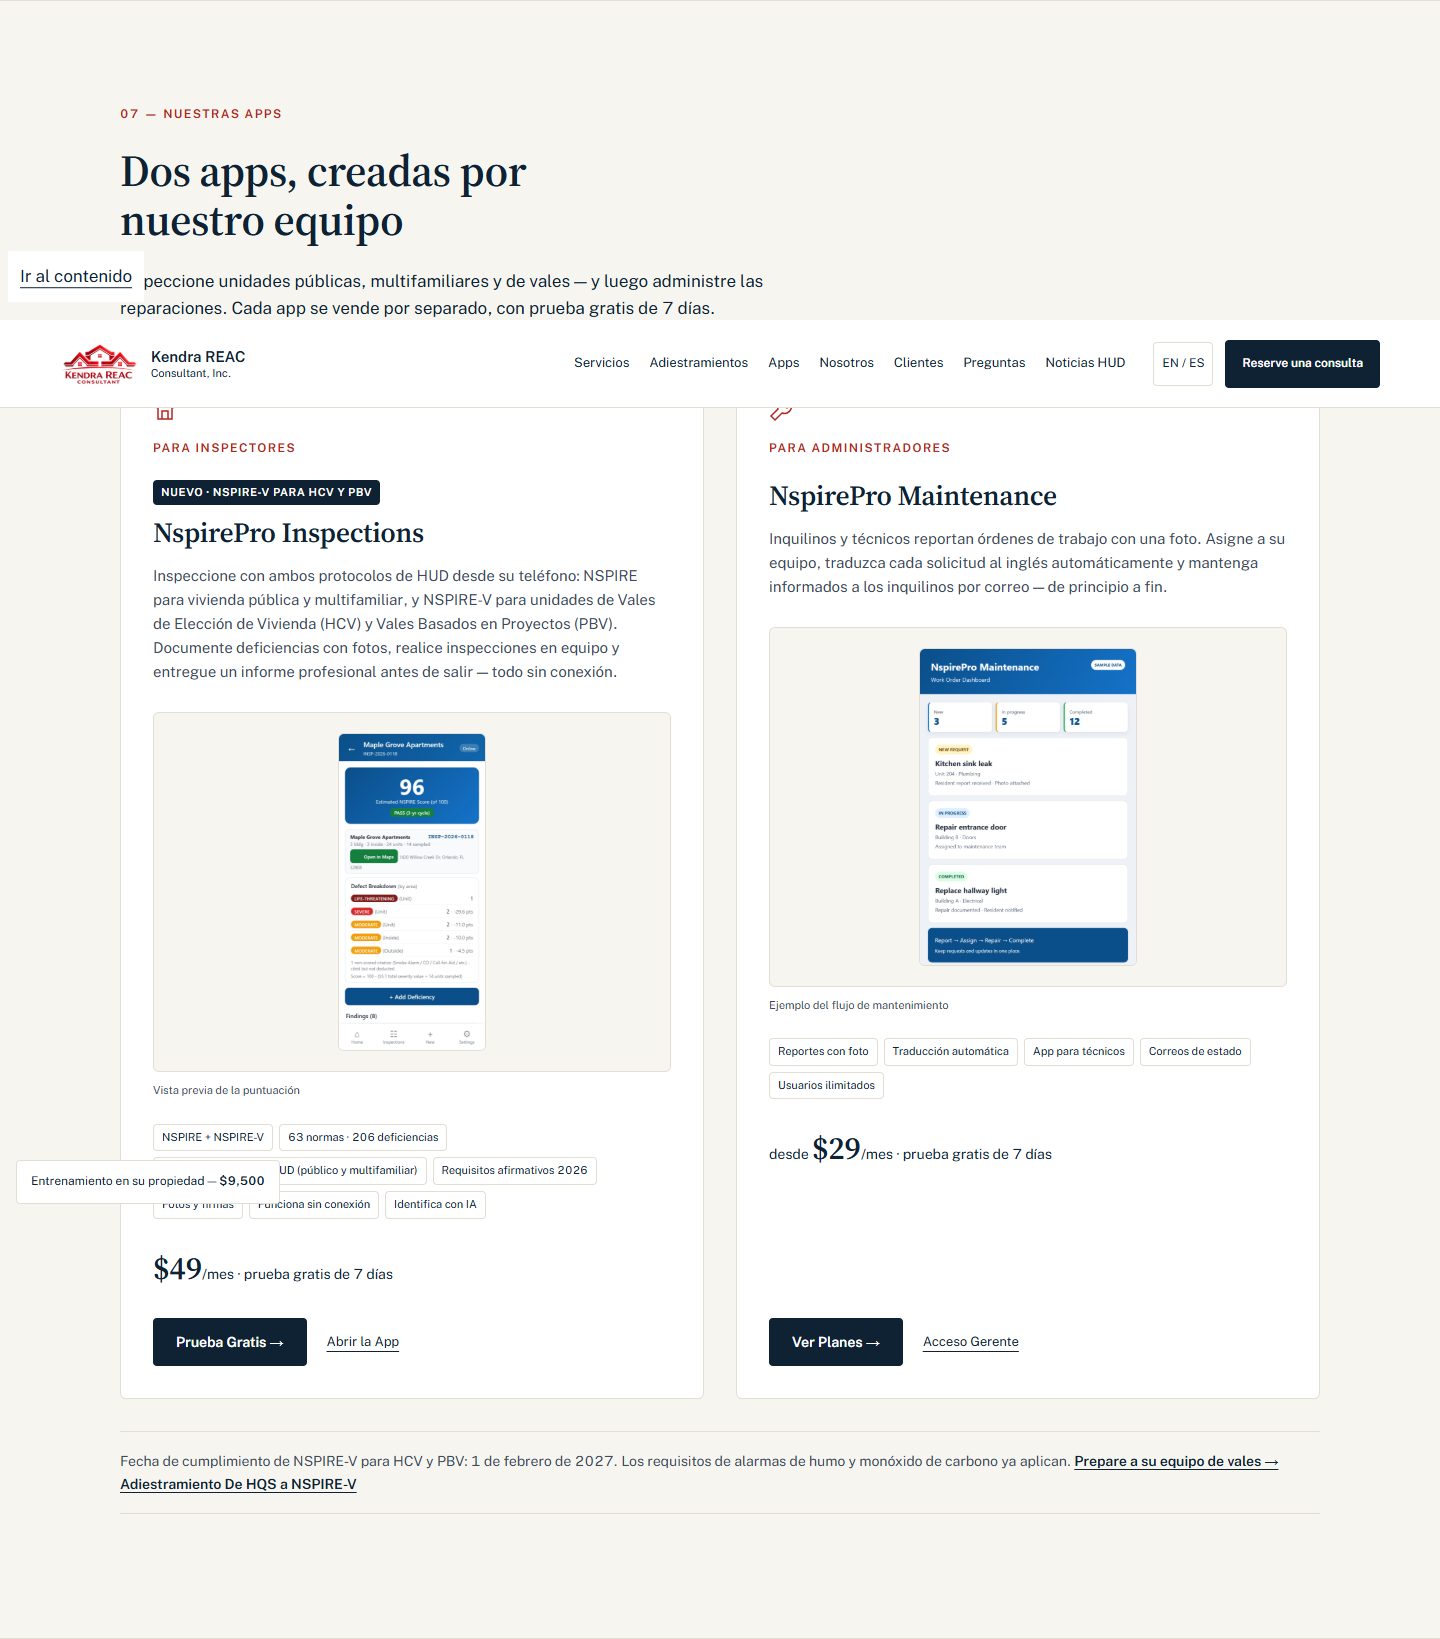
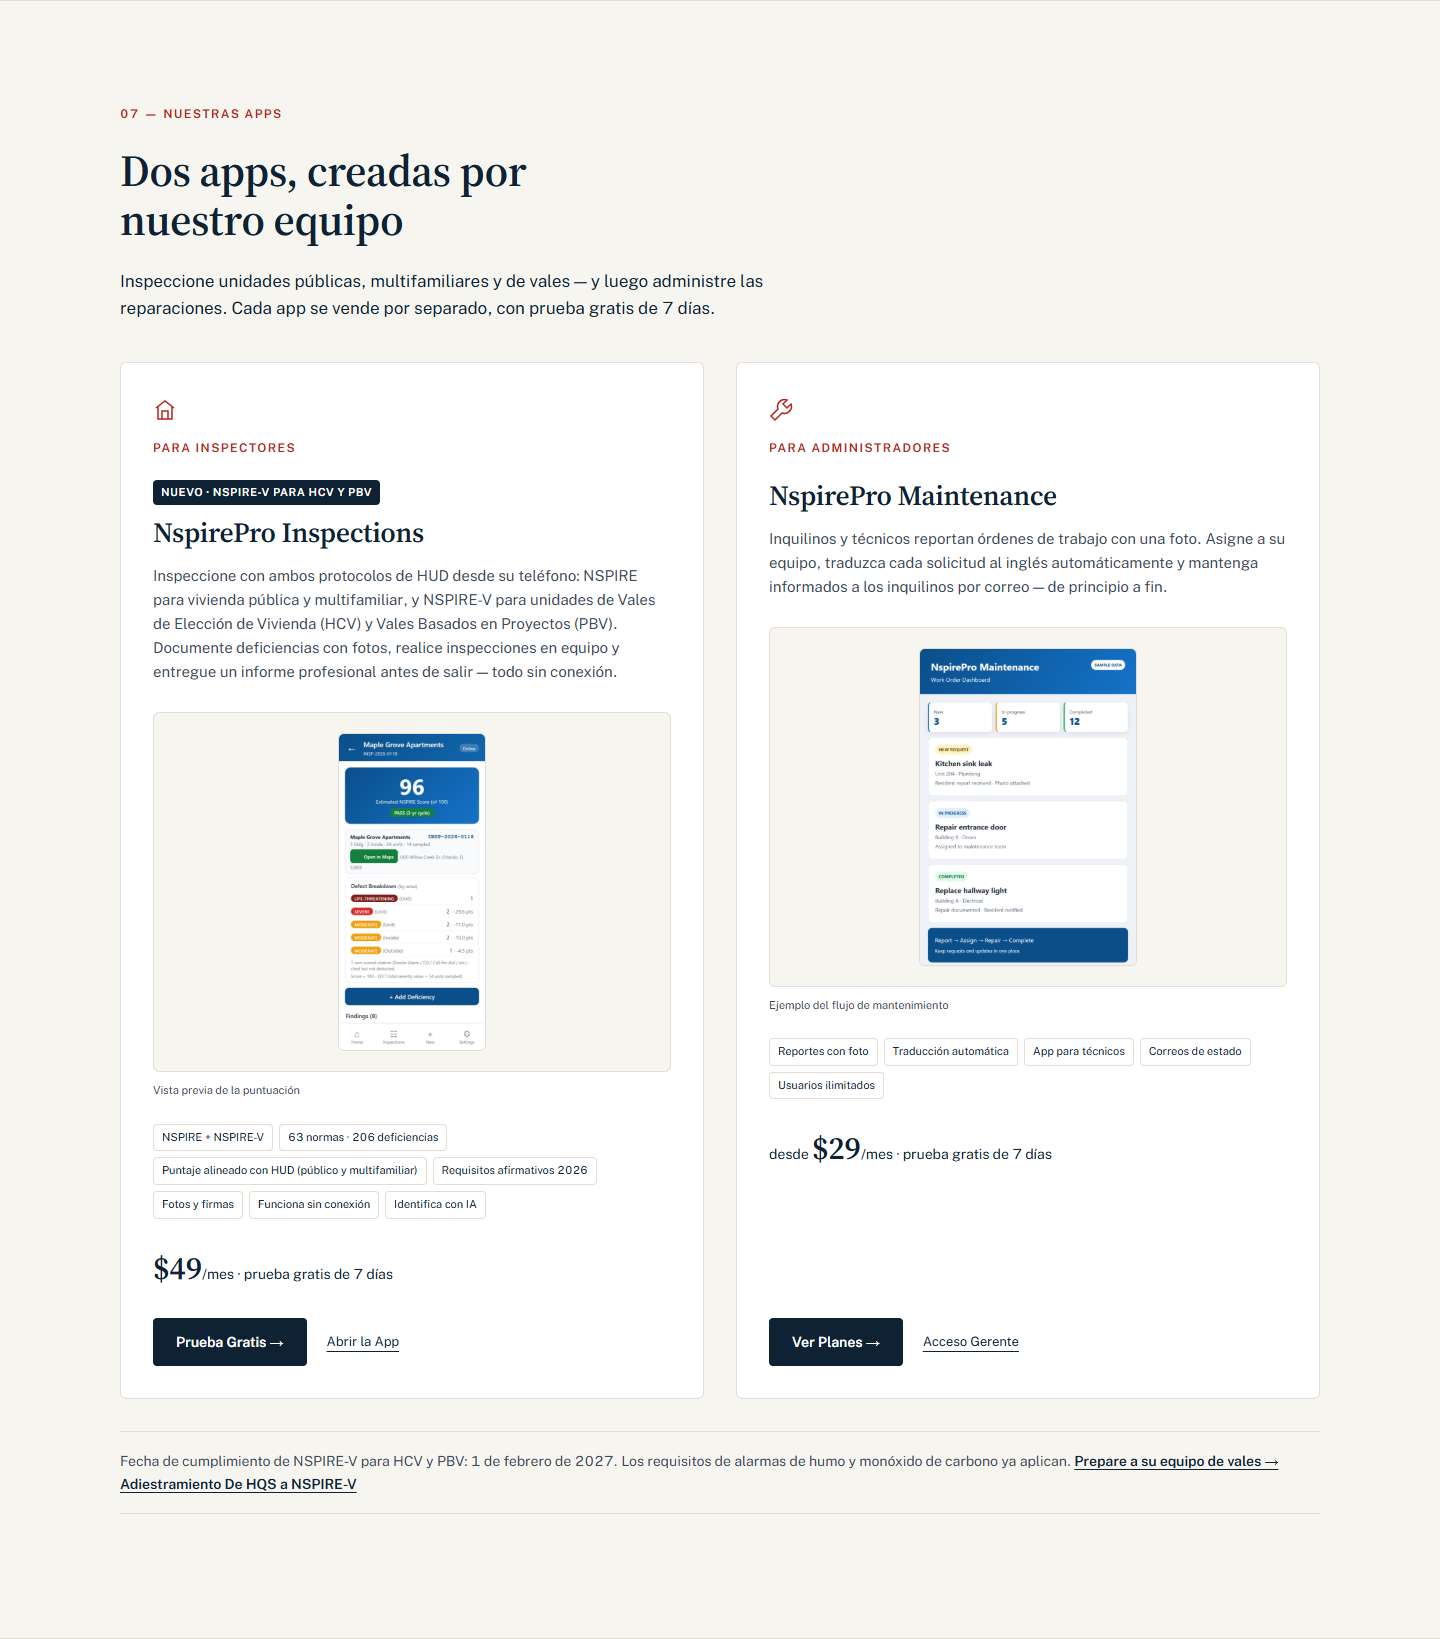
Clarify section screenshot capture and refresh app evidence

diff --git a/review/homepage/README.md b/review/homepage/README.md
@@ -85,3 +85,5 @@ Netlify's preview-only collaboration drawer intercepted pointer events during th
 Ready for owner review, not authorization to merge. Claude's code changes in a489c5a remain intact; this follow-up adds review documentation and screenshots only.
 
 Supplemental checks in both engines passed: automatic five-second promo opening and focus return to the persistent link after Escape; Enter-key activation of the new FAQ; FAQ anchor remains below the 72px sticky mobile nav. [Interaction results](review-a489c5a-interactions.json).
+
+App-section screenshots hide fixed navigation, skip link and floating controls only during capture so long element screenshots do not composite them across the section. Mobile bottom-row screenshots retain the actual site controls.
